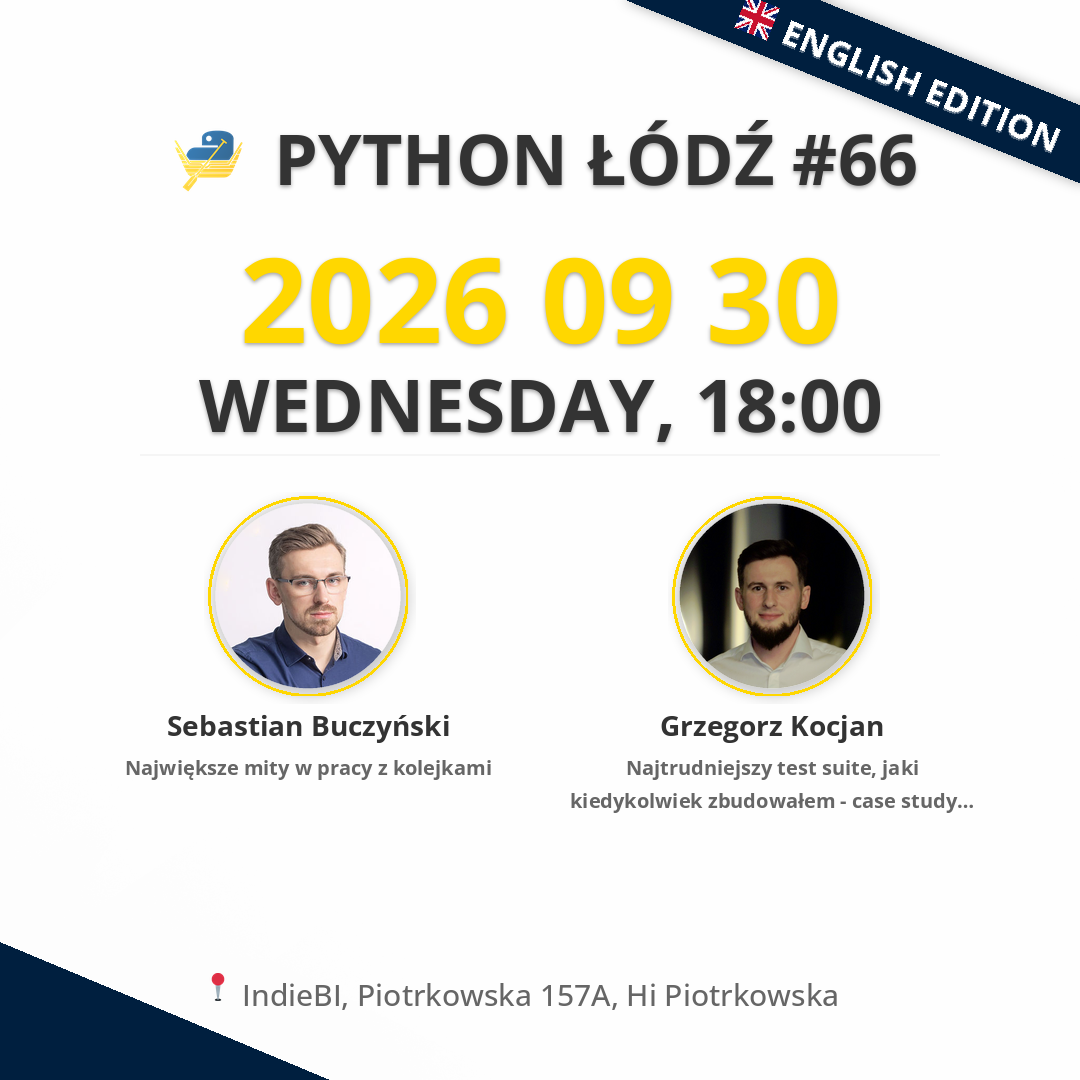
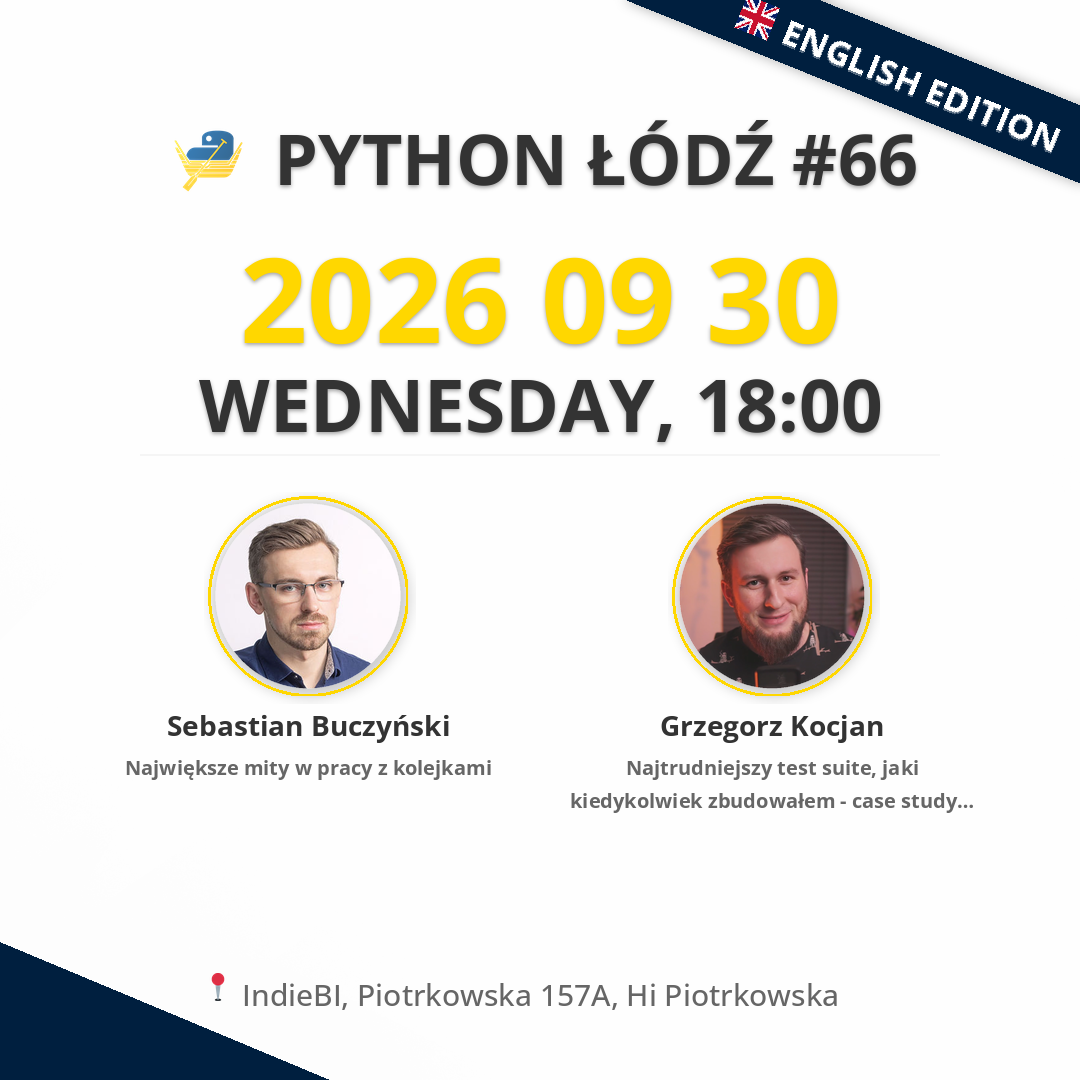
fix(pyldz): nowe zdjęcie z formularza trafia na grafiki
Grzegorz wgrał w zgłoszeniu nowe zdjęcie (arkusz: 2026-09-18 10:53), ale #66
wyszło z kadrem z 2025 — cache avatarów sprawdzał tylko, czy `<id>.png` istnieje.

- avatar niesie w metadanych PNG-a odcisk sha256 pliku źródłowego; inny odcisk
  (albo jego brak, czyli kadr sprzed tej zmiany) = przetwarzamy od nowa.
  Zgłoszenie bez zdjęcia nie ma czym wyprzeć kadru, który już mamy w repo
- `detect_and_center_square` wybiera twarz dominującą wielkością zamiast odrzucać
  wszystko przy >1 detekcji. Na tym zdjęciu detektor znalazł 4 twarze: prawdziwą
  748x748 (pewność 0.91) i trzy leniwce z koszulki 52-60 px (0.95-0.99) — przez
  starą politykę avatarem zostawał cały poziomy kadr 3041x1719.
  Dwie porównywalne twarze nadal są błędem: na zdjęciu grupowym nie zgadujemy,
  kto jest prelegentem
- regeneracja #66: avatar Grzegorza to teraz kwadrat 1496x1496 z nowego zdjęcia,
  Sebastiana bez zmian (306x306, jedna twarz)

Weryfikacja: pytest 129 zielone (4 nowe testy cache + 2 na wybór twarzy),
ruff bez uwag w dotkniętych plikach, `hugo -s page --minify` EXIT 0, grafiki
16:9 i 4:5 obejrzane — nowe zdjęcie w obu.

Changed region(s): [[0.6111, 0.4583, 0.825, 0.6417], [0.2139, 0.4583, 0.3667, 0.6417]]

diff --git a/src/pyldz/image_generator.py b/src/pyldz/image_generator.py
@@ -1,3 +1,4 @@
+import hashlib
 import logging
 import math
 from datetime import date as date_cls
@@ -6,11 +7,14 @@ from io import BytesIO
 from pathlib import Path
 from typing import Literal, Optional, Tuple
 
-from PIL import Image, ImageDraw, ImageFilter, ImageFont, ImageOps
+from PIL import Image, ImageDraw, ImageFilter, ImageFont, ImageOps, PngImagePlugin
 
-from pyldz.models import Language, Meetup, Speaker
+from pyldz.models import NO_PHOTO_NAME, Language, Meetup, Speaker
 
 log = logging.getLogger(__name__)
+
+# Odcisk pliku źródłowego zapisywany w metadanych avatara — patrz _cached_avatar.
+AVATAR_SOURCE_KEY = "pyldz-source-sha256"
 
 
 class ImageGenerationError(Exception):
@@ -1066,27 +1070,19 @@ class MeetupImageGenerator:
 
     def _avatar(self, speaker: Speaker, size: tuple[int, int]) -> Image.Image:
         try:
-            raw = self.cache_dir / f"{speaker.id}_original.png"
             processed = self.cache_dir / f"{speaker.id}.png"
-            if processed.exists():
-                img = Image.open(processed).convert("RGBA")
-            else:
-                if raw.exists():
-                    original = Image.open(raw).convert("RGBA")
-                else:
-                    original = Image.open(BytesIO(speaker.avatar.content)).convert(
-                        "RGBA"
-                    )
-                    original.save(raw, "PNG")
-                from pyldz import face_centering
+            # Zgłoszenie bez zdjęcia nie ma czym wyprzeć kadru, który już mamy.
+            submitted = (
+                None if speaker.avatar.name == NO_PHOTO_NAME else speaker.avatar.content
+            )
+            fingerprint = (
+                hashlib.sha256(submitted).hexdigest() if submitted is not None else None
+            )
 
-                try:
-                    centered = face_centering.detect_and_center_square(original)
-                    centered.save(processed, "PNG")
-                    img = centered
-                except face_centering.FaceDetectionError:
-                    original.save(processed, "PNG")
-                    img = original
+            img = self._cached_avatar(processed, fingerprint)
+            if img is None:
+                img = self._process_avatar(speaker, processed, fingerprint)
+
             return ImageOps.fit(
                 img,
                 size,
@@ -1096,6 +1092,55 @@ class MeetupImageGenerator:
             raise ImageGenerationError(
                 f"Failed to load avatar for {speaker.name}: {e}"
             ) from e
+
+    def _cached_avatar(
+        self, processed: Path, fingerprint: str | None
+    ) -> Image.Image | None:
+        """Cache jest ważny tylko dla tego samego pliku źródłowego.
+
+        Nowe zdjęcie wgrane w formularzu ma inny odcisk niż ten zapisany w metadanych
+        avatara, więc wygrywa. Kadry sprzed wprowadzenia odcisku nie mają go wcale —
+        też są odświeżane. Brak zdjęcia w zgłoszeniu (fingerprint=None) zostawia cache
+        w spokoju.
+        """
+        if not processed.exists():
+            return None
+
+        img = Image.open(processed)
+        if fingerprint is not None and img.info.get(AVATAR_SOURCE_KEY) != fingerprint:
+            return None
+
+        return img.convert("RGBA")
+
+    def _process_avatar(
+        self, speaker: Speaker, processed: Path, fingerprint: str | None
+    ) -> Image.Image:
+        raw = self.cache_dir / f"{speaker.id}_original.png"
+
+        if fingerprint is None and raw.exists():
+            original = Image.open(raw).convert("RGBA")
+        else:
+            original = Image.open(BytesIO(speaker.avatar.content)).convert("RGBA")
+            self._save_avatar(original, raw, fingerprint)
+
+        from pyldz import face_centering
+
+        try:
+            img = face_centering.detect_and_center_square(original)
+        except face_centering.FaceDetectionError:
+            img = original
+
+        self._save_avatar(img, processed, fingerprint)
+        return img
+
+    def _save_avatar(
+        self, img: Image.Image, path: Path, fingerprint: str | None
+    ) -> None:
+        metadata = None
+        if fingerprint is not None:
+            metadata = PngImagePlugin.PngInfo()
+            metadata.add_text(AVATAR_SOURCE_KEY, fingerprint)
+        img.save(path, "PNG", pnginfo=metadata)
 
     def _apply_circular_mask(self, img: Image.Image) -> Image.Image:
         if not self.avatar_mask.exists():

diff --git a/tests/test_avatar_cache.py b/tests/test_avatar_cache.py
@@ -1,0 +1,106 @@
+"""Cache avatarów musi reagować na nowe zdjęcie wgrane w formularzu zgłoszeniowym."""
+
+import io
+
+import pytest
+from PIL import Image
+
+from pyldz import face_centering
+from pyldz.image_generator import MeetupImageGenerator
+from pyldz.models import File, Speaker
+
+
+@pytest.fixture
+def assets_dir(tmp_path):
+    assets = tmp_path / "assets"
+    (assets / "images" / "avatars").mkdir(parents=True)
+    (assets / "fonts").mkdir(parents=True)
+    Image.new("RGBA", (1920, 1080), (255, 255, 255, 255)).save(
+        assets / "images" / "infographic_template.png"
+    )
+    Image.new("L", (300, 300), 255).save(assets / "images" / "avatars" / "mask.png")
+    Image.new("RGBA", (300, 300), (128, 128, 128, 255)).save(
+        assets / "images" / "avatars" / "tba.png"
+    )
+    (assets / "fonts" / "OpenSans-Medium.ttf").touch()
+    (assets / "fonts" / "OpenSans-Bold.ttf").touch()
+    return assets
+
+
+@pytest.fixture
+def centering_calls(monkeypatch):
+    calls: list[int] = []
+
+    def centre(img: Image.Image) -> Image.Image:
+        calls.append(1)
+        return img.crop((0, 0, min(img.size), min(img.size)))
+
+    monkeypatch.setattr(face_centering, "detect_and_center_square", centre)
+    return calls
+
+
+def photo(color: tuple[int, int, int, int]) -> bytes:
+    buffer = io.BytesIO()
+    Image.new("RGBA", (400, 300), color).save(buffer, format="PNG")
+    return buffer.getvalue()
+
+
+def speaker_with(content: bytes, name: str = "photo.png") -> Speaker:
+    return Speaker(
+        id="grzegorz-kocjan",
+        name="Grzegorz Kocjan",
+        bio="",
+        avatar=File(name=name, content=content),
+        social_links=[],
+    )
+
+
+RED = (200, 10, 10, 255)
+BLUE = (10, 10, 200, 255)
+
+
+def test_new_photo_from_the_form_replaces_the_cached_avatar(
+    assets_dir, centering_calls
+):
+    generator = MeetupImageGenerator(assets_dir)
+    generator._avatar(speaker_with(photo(RED)), (100, 100))
+
+    result = generator._avatar(speaker_with(photo(BLUE)), (100, 100))
+
+    assert result.getpixel((50, 50)) == BLUE
+    assert len(centering_calls) == 2
+
+
+def test_unchanged_photo_reuses_the_cache(assets_dir, centering_calls):
+    generator = MeetupImageGenerator(assets_dir)
+    content = photo(RED)
+
+    generator._avatar(speaker_with(content), (100, 100))
+    result = generator._avatar(speaker_with(content), (100, 100))
+
+    assert result.getpixel((50, 50)) == RED
+    assert len(centering_calls) == 1
+
+
+def test_cache_written_before_fingerprints_is_refreshed(assets_dir, centering_calls):
+    generator = MeetupImageGenerator(assets_dir)
+    # Avatar wgrany przed wprowadzeniem odcisku źródła — bez metadanych.
+    Image.new("RGBA", (300, 300), RED).save(generator.cache_dir / "grzegorz-kocjan.png")
+
+    result = generator._avatar(speaker_with(photo(BLUE)), (100, 100))
+
+    assert result.getpixel((50, 50)) == BLUE
+
+
+def test_submission_without_a_photo_keeps_the_avatar_from_the_repo(
+    assets_dir, centering_calls
+):
+    generator = MeetupImageGenerator(assets_dir)
+    generator._avatar(speaker_with(photo(RED)), (100, 100))
+
+    result = generator._avatar(
+        speaker_with(File.no_photo().content, name="no_photo.png"), (100, 100)
+    )
+
+    assert result.getpixel((50, 50)) == RED
+    assert len(centering_calls) == 1

diff --git a/tests/test_face_centering.py b/tests/test_face_centering.py
@@ -164,3 +164,46 @@ class TestImageGeneratorFaceCentering:
         # Processed avatar should exist
         processed_cache = generator.cache_dir / f"{speaker.id}.png"
         assert processed_cache.exists()
+
+
+def test_dominant_face_wins_over_small_false_positives(monkeypatch):
+    """Detektor łapie wzory z tła i ubrania jako twarze — są o rząd wielkości mniejsze.
+
+    Realny przypadek: kadr z YouTube'a, gdzie leniwce na koszulce dostały wyższą
+    pewność (0.95–0.99) niż prawdziwa twarz (0.91). Decyduje wielkość, nie pewność.
+    """
+    from pyldz import face_centering
+
+    image = Image.new("RGB", (3041, 1719), (120, 180, 200))
+    monkeypatch.setattr(
+        face_centering,
+        "_deepface_extract_faces",
+        lambda img: [
+            _fake_face({"x": 1033, "y": 329, "w": 748, "h": 748}),
+            _fake_face({"x": 1002, "y": 1194, "w": 52, "h": 52}),
+            _fake_face({"x": 1910, "y": 1649, "w": 56, "h": 56}),
+        ],
+    )
+
+    squared = face_centering.detect_and_center_square(image)
+
+    assert squared.width == squared.height
+    # Kadr musi obejmować środek prawdziwej twarzy (1407, 703), a nie całe zdjęcie.
+    assert squared.width < image.width
+    assert squared.width <= 748 * 2
+
+
+def test_two_comparable_faces_still_refuse_to_guess(monkeypatch, sample_rect_image):
+    from pyldz import face_centering
+
+    monkeypatch.setattr(
+        face_centering,
+        "_deepface_extract_faces",
+        lambda img: [
+            _fake_face({"x": 10, "y": 10, "w": 40, "h": 40}),
+            _fake_face({"x": 120, "y": 10, "w": 30, "h": 30}),
+        ],
+    )
+
+    with pytest.raises(face_centering.FaceDetectionError, match="More than one face"):
+        face_centering.detect_and_center_square(sample_rect_image)

diff --git a/src/pyldz/face_centering.py b/src/pyldz/face_centering.py
@@ -15,6 +15,10 @@ class FaceDetectionError(Exception):
     pass
 
 
+# Druga twarz tej wielkości (względem największej) znaczy „zdjęcie grupowe".
+DOMINANT_FACE_RATIO = 0.5
+
+
 @dataclass(frozen=True)
 class _Box:
     x: int
@@ -75,14 +79,35 @@ def _to_box(face: dict[str, Any]) -> _Box:
     )
 
 
+def _pick_dominant_face(faces: list[dict[str, Any]]) -> _Box:
+    """Wybierz twarz prelegenta wśród wszystkich detekcji.
+
+    Detektor bierze za twarze także wzory z ubrania i tła — i potrafi dać im wyższą
+    pewność niż prawdziwej twarzy — ale są one o rząd wielkości mniejsze. Decyduje
+    więc wielkość. Dwie porównywalne twarze to prawdziwe zdjęcie grupowe: kto na nim
+    jest prelegentem, tego nie zgadujemy.
+    """
+    boxes = sorted(
+        (_to_box(face) for face in faces),
+        key=lambda box: max(box.w, box.h),
+        reverse=True,
+    )
+    dominant = boxes[0]
+
+    if len(boxes) > 1:
+        runner_up_side = max(boxes[1].w, boxes[1].h)
+        if runner_up_side > DOMINANT_FACE_RATIO * max(dominant.w, dominant.h):
+            raise FaceDetectionError("More than one face detected")
+
+    return dominant
+
+
 def detect_and_center_square(image: Image.Image) -> Image.Image:
     faces = _deepface_extract_faces(image)
     if not faces:
         raise FaceDetectionError("No face detected")
-    if len(faces) > 1:
-        raise FaceDetectionError("More than one face detected")
 
-    box = _to_box(faces[0])
+    box = _pick_dominant_face(faces)
     if box.w <= 0 or box.h <= 0:
         raise FaceDetectionError("Invalid face box")
 

diff --git a/src/pyldz/models.py b/src/pyldz/models.py
@@ -19,13 +19,15 @@ from pyldz.config import GoogleSheetsConfig
 
 log = logging.getLogger(__name__)
 
+NO_PHOTO_NAME = "no_photo.png"
+
 FALLBACK_PHOTO_PATH = (
     Path(__file__).parent.parent.parent
     / "page"
     / "assets"
     / "images"
     / "avatars"
-    / "no_photo.png"
+    / NO_PHOTO_NAME
 )
 
 
@@ -75,7 +77,7 @@ class File(BaseModel):
     @classmethod
     def no_photo(cls) -> Self:
         return cls(
-            name="no_photo.png",
+            name=NO_PHOTO_NAME,
             content=FALLBACK_PHOTO_PATH.read_bytes(),
         )
 
